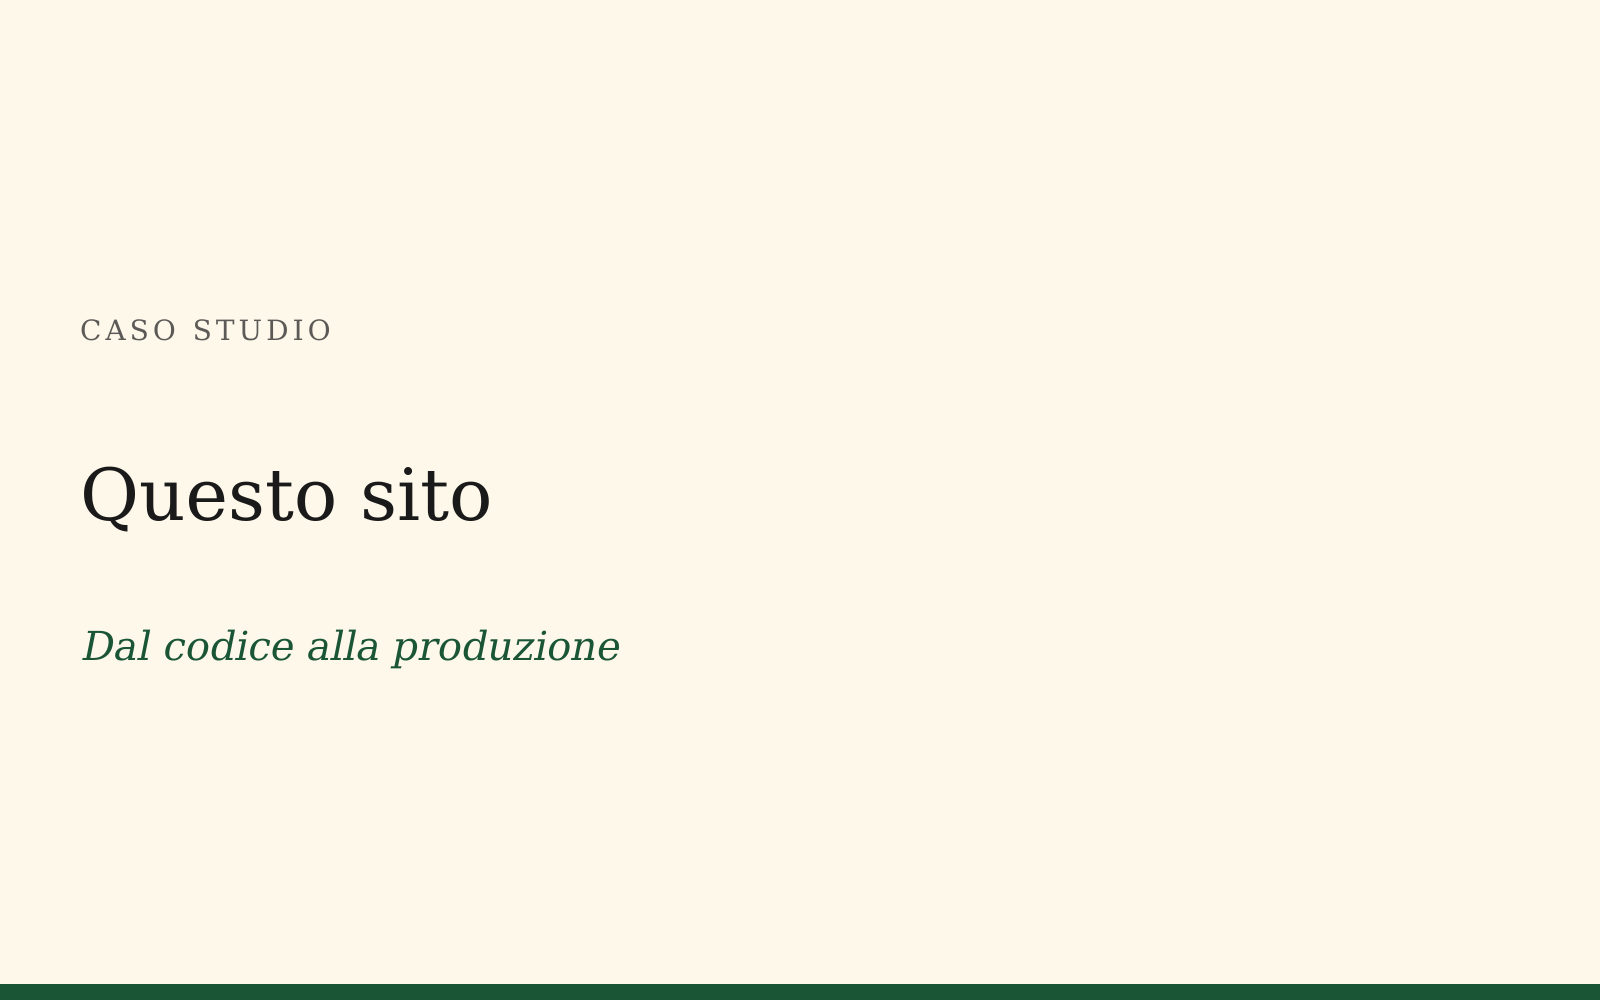
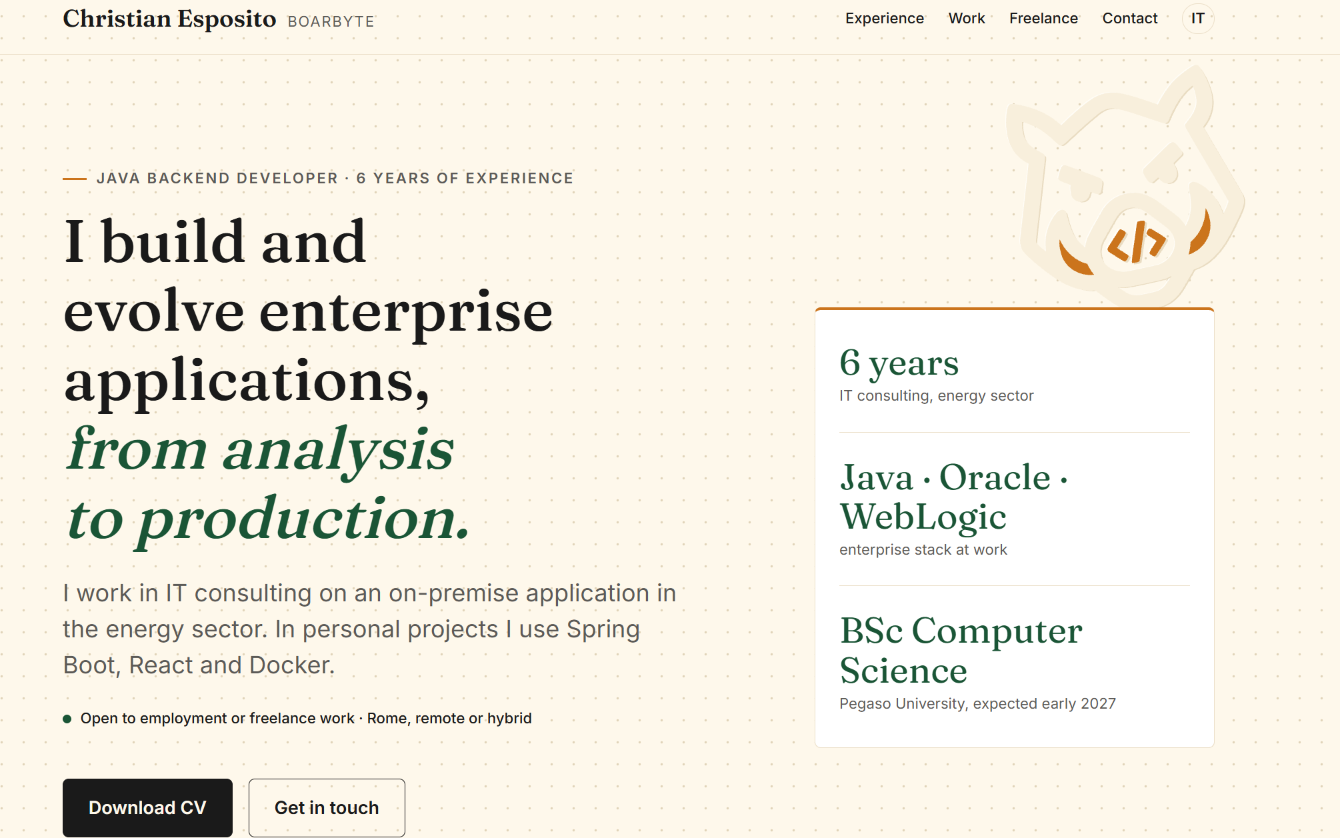
Compilate card con siti esempio

diff --git a/src/content/projects/it/gestionale-lab.md b/src/content/projects/it/gestionale-lab.md
@@ -1,9 +1,9 @@
 ---
 title: Gestionale per laboratorio di analisi
-summary: "Applicazione web per gestire accettazione dei pazienti, esami e referti di un laboratorio di analisi cliniche, con accessi differenziati per ruolo."
+summary: "Applicazione web per un laboratorio di analisi cliniche: accettazione, esami e referti, con accessi per ruolo. I pazienti scaricano il referto senza registrarsi, con codice fiscale e token."
 stack: [Java, Spring Boot, React, PostgreSQL, Docker]
 cover: ../../../assets/projects/gestionale-lab.png
-coverAlt: Schermata del gestionale con l'elenco delle accettazioni del giorno (dati fittizi)
+coverAlt: Home page del portale per i pazienti, con prenotazione delle visite e download dei referti
 order: 1
 ---
 
@@ -20,6 +20,7 @@ Un gestionale web unico che accompagna il paziente dall'accettazione al referto:
 - accettazione e anagrafica dei pazienti;
 - gestione delle richieste e dello stato degli esami;
 - inserimento e consultazione dei referti;
+- un portale per i pazienti, che prenotano la visita online e scaricano il referto **senza account né login**: ricevono una mail con un link e un token, e il link apre la pagina di download già compilata con codice fiscale e token. Chi preferisce può inserirli a mano;
 - ruoli distinti (accettazione, tecnici, medici, amministrazione) con permessi dedicati.
 
 ## Architettura
@@ -28,4 +29,4 @@ Backend REST in Java con Spring Boot, frontend React, database relazionale. L'in
 
 ## Il risultato
 
-Un unico punto di accesso per tutto il personale, meno passaggi manuali e dati sanitari protetti da controlli di accesso per ruolo.
+Un unico punto di accesso per tutto il personale, meno passaggi manuali e dati sanitari protetti da controlli di accesso per ruolo. Per i pazienti niente code, telefonate o password da ricordare: il referto si scarica in pochi secondi.

diff --git a/src/content/projects/en/gestionale-lab.md b/src/content/projects/en/gestionale-lab.md
@@ -1,9 +1,9 @@
 ---
 title: Management software for a medical lab
-summary: "Web application to manage patient check-in, tests and reports for a clinical analysis laboratory, with role-based access."
+summary: "Web application for a clinical analysis lab: check-in, tests and reports, with role-based access. Patients download their report without signing up, using their tax code and a token."
 stack: [Java, Spring Boot, React, PostgreSQL, Docker]
 cover: ../../../assets/projects/gestionale-lab.png
-coverAlt: Screenshot of the management software showing today's check-ins (sample data)
+coverAlt: Home page of the patient portal, for booking visits and downloading lab reports
 order: 1
 ---
 
@@ -20,6 +20,7 @@ A single web application that follows the patient from check-in to report:
 - patient check-in and records;
 - test requests and status tracking;
 - report entry and lookup;
+- a patient portal to book visits online and download reports **with no account and no login**: patients get an email with a link and a token, and the link opens the download page already filled in with their Italian tax code and the token. They can also enter both by hand;
 - separate roles (front desk, technicians, doctors, administration) with dedicated permissions.
 
 ## Architecture
@@ -28,4 +29,4 @@ REST backend in Java with Spring Boot, React frontend, relational database. The 
 
 ## The outcome
 
-One entry point for all staff, fewer manual steps, and health data protected by role-based access control.
+One entry point for all staff, fewer manual steps, and health data protected by role-based access control. Patients skip queues, phone calls and passwords: they get their report in a few seconds.
